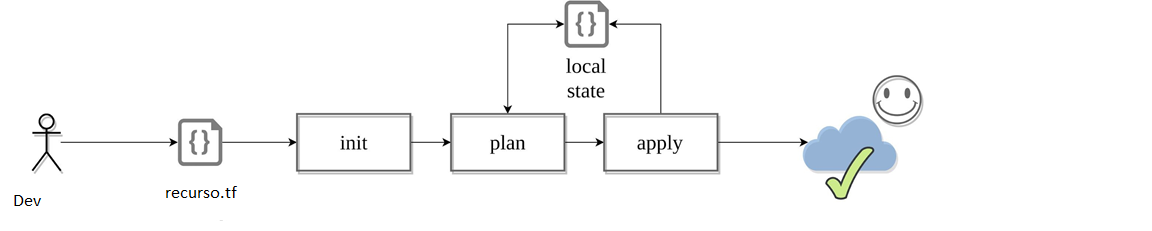
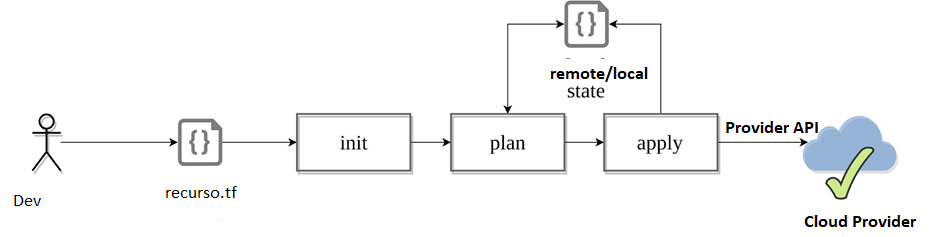
versão final entrega SGA/Secretaria

diff --git a/artigo/textos.tex b/artigo/textos.tex
@@ -17,7 +17,7 @@ No entanto, as equipes que lidam com a infraestrutura têm a difícil tarefa de 
 
 Para garantir um processo totalmente ágil e que acompanhe as exigências do negócio, da organização, é necessário que haja uma integração do desenvolvimento de sistemas e as operações de infraestrutura. Portanto, essa abordagem ágil também deve ser seguida pelas equipes de infraestrutura. O movimento cultural denominado \textit{DevOps} surgido em meados de 2009 foi influenciado principalmente por metodologias ágeis e computação na nuvem. Ele teve como fundamento a automatização de processos das operações de infraestrutura e a integração entre as equipes de desenvolvimento e operações.  \cite{sato}.
 
-A automatização de processos de infraestrutura é uma das premissas do \textit{DevOps}, utilizando uma abordagem para provisionar e gerenciar recursos de computação como máquinas virtuais, discos de armazenamento, regras de segurança, instalação de \textit{software}, regras de redes e qualquer outro componente de serviço, simplificando o provisionamento e o gerenciamento de recursos. Ao tratar a infraestrutura como código, as organizações podem usar as melhores práticas de desenvolvimento de software, incluindo revisão de código e controle de versão, documentação e testes da infraestrutura. Esta abordagem reduz a complexidade do gerenciamento, pois todo o processo é dividido em tarefas em menores e mais processos gerenciáveis.
+A automatização de processos de infraestrutura é uma das premissas do \textit{DevOps}, utilizando uma abordagem para provisionar e gerenciar recursos de computação como máquinas virtuais, discos de armazenamento, regras de segurança, instalação de \textit{software}, regras de redes e qualquer outro componente de serviço, simplificando o provisionamento e o gerenciamento de recursos. Ao tratar a infraestrutura como código, as organizações podem usar as melhores práticas de desenvolvimento de software, incluindo revisão de código e controle de versão, documentação e testes da infraestrutura. Esta abordagem reduz a complexidade do gerenciamento, pois todo o processo é dividido em tarefas em menores e mais processos gerenciáveis. \cite{Morris:2016:ICM:3006361}
 
 A abordagem da infraestrutura como código, também conhecida como \textit{IaC} reduz os riscos operacionais, permitindo submeter a configuração da infraestrutura da mesma maneira que o código fonte do software é tratado, usando sistemas de gerenciamento de código-fonte, \textit{TDD} \footnote{\textit{TDD - Test Driven Development}: O teste são que são escritos antes do nosso código de produção} , integração contínua \footnote{\textit{CI - Continuous Integration}: É uma prática de desenvolvimento de software em que os desenvolvedores, juntam suas alterações de código em um repositório central e os testes são executados. Geralmente, a integração contínua se refere ao estágio de criação ou integração do processo de lançamento de software.} , refatoração de código e outras técnicas, que são úteis para garantir que as alterações na infraestrutura sejam exaustivamente testadas, repetíveis e podendo restaurar a infraestrutura em qualquer revisão anterior, quando necessário. \cite{Morris:2016:ICM:3006361}.
 
@@ -53,17 +53,17 @@ com ferramentas de \textit{CI}, aplicações de metodologias de desenvolvimento 
 
 \section{\esp Metodologia}
 
-Para o desenvolvimento desse trabalho foram realizadas buscas sistêmicas em base dados nacionais e internacionais pelos assuntos relacionados a estes trabalho. As bases dados utilizadas foram o \textit{IEEE}, \textit{Google Scoolar}, \textit{Carnegie Mellon University Libraries}, SciELO e portal da capes. Foram consideradas as expressões:  \textit{Infrastructure as code}, \textit{IaC}, Infraestrutura como código, \textit{Tools IaC}, \textit{Terraform}, \textit{Ansible}, Automação de infraestrutura, \textit{Infrastructure automation} , \textit{Infrastructure as code book}, \textit{Terraform book} e \textit{Ansible book}. Todos os registros de artigos publicados entre 2003 e 2019, que continham qualquer uma dessas expressões. Além disso foram pesquisadas em fontes como livros e a documentação oficial de ferramentas estudadas neste artigo.  
+Para o desenvolvimento desse trabalho foram realizadas buscas sistêmicas em base dados nacionais e internacionais pelos assuntos relacionados a estes trabalho. As bases dados utilizadas foram o \textit{IEEE}, \textit{Google Scoolar}, \textit{Carnegie Mellon University Libraries}, SciELO e portal da capes. Foram consideradas as expressões:  \textit{Infrastructure as code}, \textit{IaC}, Infraestrutura como código, \textit{Tools IaC}, \textit{Terraform}, \textit{Ansible}, Automação de infraestrutura, \textit{Infrastructure automation} , \textit{Infrastructure as code book}, \textit{Terraform book} e \textit{Ansible book}. Todos os registros de artigos publicados entre 2003 e 2019, que continham qualquer uma dessas expressões. Além disso foram pesquisadas em fontes, como livros e a documentação oficial de ferramentas estudadas neste artigo.
 
-Impulsionado pelo movimento \textit{Agile} que alterou a forma como \textit{softwares} são construídos, priorizando ciclos curtos de desenvolvimento e entregas incrementais. Como resultado a infraestrutura também passou por essa transformação, buscando a máxima disponibilidade e flexibilidade. Essa transformação veio através do movimento chamado \textit{DevOps} que requer processos de trabalho ágeis e fluxos de trabalho automatizados, e que só podem ser alcançados com a garantia de infraestrutura de TI prontamente disponível necessária para executar e testa o código desenvolvido. Isso só pode acontecer dentro de um fluxo de trabalho automatizado, o que pode ser entendido como infraestrutura como código ou IaC. As ferramentas de IaC tem um papel fundamental para criar esses fluxos de trabalhos automatizados.
+O motivo para estudar ferramentas de \textit{IaC} é devido a transformação causada pelo movimento Ágil, que alterou a forma como \textit{softwares} são construídos, priorizando ciclos curtos de desenvolvimento e entregas incrementais. Como resultado a infraestrutura também passou por essa transformação, buscando a máxima disponibilidade e flexibilidade. Essa transformação veio através do movimento chamado \textit{DevOps}, que recomenda o fluxo de trabalho ágil e automatizado, e que só podem ser alcançados com a garantia de infraestrutura de TI prontamente disponível necessária para executar e testa o código desenvolvido. Isso só pode acontecer dentro de um fluxo de trabalho automatizado, o que pode ser entendido como, "Infraestrutura como código" ou IaC. As ferramentas de IaC tem um papel fundamental para criar esses fluxos de trabalhos automatizados.
 
-A grande quantidade de opções de ferramentas de \textit{IAC}, levada pela inexperiência da equipe pelo assunto, pode dificultar que a equipe escolha ferramentas que atendam o cenário ideal, sejam fáceis de utilizar de implantar e que tenham uma sinergia com ferramentas e o processo de desenvolvimento. Estabelecendo assim, um processo ágil que abrande desenvolvimento e operações de infraestrutura.  
+Devido a isso, existe atualmente uma grande quantidade de opções de ferramentas de \textit{IAC}, em conjunto com pela inexperiência da equipe pelo assunto, pode dificultar que a equipe escolha ferramentas que atendam o cenário ideal, que sejam fáceis de utilizar, implantar e que tenham uma integração com outras ferramentas e que garanta uma sinergia com o processo de desenvolvimento. Estabelecendo assim, um processo ágil que abrande desenvolvimento e operações de infraestrutura.  
 
-A escolha das ferramentas obedeceram critérios da tabela de \citeonline{masek} e dentre as ferramentas que atendem às características descritas nesta tabela, foram escolhidas o \textit{Ansible} e o \textit{Terraform} e usando critérios extras como, aceitação do mercado, suporte comercial e maturidade da ferramenta.
+A escolha das ferramentas obedeceram critérios da tabela de \citeonline{masek} e dentre as ferramentas que atendem às características descritas nesta tabela, foram escolhidas o \textit{Ansible} e o \textit{Terraform} e usando critérios extras como, aceitação do mercado, suporte comercial, maturidade da ferramenta e ferramentas que trabalham no modelo de provisionamento(Abordadas na Seção \ref{tools_iac}).
 
-Para medir a aceitação do mercado foram realizadas pesquisas em sites especializados de comparação de tipos de ferramentas. Um outro aspecto foi certificar se é uma ferramenta \textit{open source}(um ponto importante para permitir adaptação da ferramenta),se possui um plano de suporte pago, para critério de desempate foi considerado o preço do suporte. Para medir a maturidade foram consideradas o tempo de mercado, documentação, tempo de lançamento entre versões e a integração entre ferramentas.
+Para medir a aceitação do mercado foram realizadas pesquisas em sites especializados de comparação de tipos de ferramentas. Um outro aspecto foi certificar se é uma ferramenta \textit{open source}(um ponto importante para permitir adaptação da ferramenta),se possui um plano de suporte comerical, para critério de desempate foi considerado o preço do suporte. Para medir a maturidade foram consideradas o tempo de mercado, documentação, tempo de lançamento entre versões e a integração entre ferramentas.
 
-Os aspectos comparativos consideradas foram a linguagem de escrita, a performance(o tempo que cada ferramenta leva para criar um determinado número de recursos.) O controle de estado(capacidade da ferramenta  de controlar e identificar o estado real dos recursos) e a extensibilidade da ferramenta(Se possui um conjunto de \textit{SDK's} \footnote{\textit{SDK - Software Development Kit}} em que permite a programadores estender as funcionalidades da ferramenta).  Estes aspectos foram definidos de um compilado de assuntos abordados pelos autores apresentados neste artigo, como \cite{steve}, \cite{masek} e \cite{Morris:2016:ICM:3006361}.
+Os aspectos comparativos consideradas foram a linguagem de escrita, a performance(o tempo que cada ferramenta leva para criar um determinado número de recursos.). O controle de estado(capacidade da ferramenta  de controlar e identificar o estado real dos recursos) e a extensibilidade da ferramenta(Se possui um conjunto de \textit{SDK's} \footnote{\textit{SDK - Software Development Kit}} em que permite a programadores estender as funcionalidades da ferramenta).  Estes aspectos foram definidos de um compilado de assuntos abordados pelos autores apresentados neste artigo, como \cite{steve}, \cite{masek} e \cite{Morris:2016:ICM:3006361}.
 
 A realização dos testes considerou as últimas versões estáveis lançadas no momento da escritas desse artigo, do \textit{Ansible}(2.4.6) e do \textit{Terraform}(0.12.13). Os testes foram realizados usando o fornecedor de computação na nuvem  \textit{Digital Ocean}. \footnote{https://www.digitalocean.com/}, utilizando uma máquina com um processador de 7 núcleos e 16 Gigabtyes de memória RAM.   
 
@@ -91,18 +91,18 @@ Segundo \citeonline{masek}, a popularização da virtualização, o crescente po
 Os itens apresentados neste capítulo foram levantados de acordo com assuntos abordados na Seção \ref{relacionados}. A ideia dessa seção é descrever os conceitos básicos da infraestrutura como código de forma sucinta para um entendimento geral do assunto.
 
 
-\subsection{Tipos de Ferramentas IaC}
+\subsection{Tipos de Ferramentas IaC} \label{tools_iac}
 As ferramentas de gerenciamento de configuração como \textit{Chef, Puppet, Ansible,Saltack} foram projetadas para instalar e gerenciar softwares em servidores já existentes. Por exemplo, na instalação de banco de dados, adicionar uma regra de \textit{firewall} e etc.
 
 As ferramentas de Provisionamento como \textit{Terraform, Heat, Cloudformation} foram projetadas criar as próprias instâncias \footnote{Uma instância é um servidor virtual na nuvem. Por exemplo: Uma instância rodando o sistema operacional LINUX} e a inicialização de seus recursos. 
 
 Segundo \citeonline{Carnegie}, existem sobreposições e esses termos não são mutuamente exclusivos para ambas as ferramentas. As ferramentas de provisionamento podem realizar tarefas de configuração e ferramentas de configuração podem realizar tarefas de provisionamento, porém elas se concentram naquilo que são melhores. 
 
-Ambas as categorias de ferramentas utilizam dois modelos para descrever os recursos, um tipo se concentra no resultado final, já o outro tipo é preciso descrever os passos necessários para atingir o resultado final. Este pode ser entendido como por exemplo, para criar uma nova máquina ou instalar uma versão do java.
+Ambas as categorias de ferramentas utilizam dois modelos para descrever os recursos, um tipo se concentra no resultado final, já o outro tipo é preciso descrever os passos necessários para atingir o resultado final. Este último pode ser entendido como por exemplo, comandos necessários para instalar uma versão do java.
 
 \subsection{Linguagem}
 
-Segundo \citeonline{Morris:2016:ICM:3006361} as ferramentas de IaC usam arquivos de definição como \textit{DSL} \footnote{\textit{DSL - Domain-Specific Language:} Uma linguagem de domínio específico é criada especificamente para resolver problemas em um domínio particular e não se destina a ser capaz de resolver os problemas fora de seu âmbito. }, ou formatos de texto conhecidos comuns como, \textit{ YAML} \footnote{\textit{YAML - Ain't  Markup Language}: É um formato de serialização (codificação de dados) de dados legíveis por humanos -  https://yaml.org/ }, \textit{JSON} \footnote{\textit{JSON - JavaScript Object Notation:} É uma formatação leve de troca de dados. Para seres humanos, é fácil de ler e escrever. Para máquinas, é fácil de interpretar e gerar. Está baseado em um subconjunto da linguagem de programação JavaScript, https://www.json.org/json-pt.html}, \textit{XML} \footnote{\textit{XML - eXtensible Markup Language:} é uma linguagem de marcação para a criação de documentos com dados organizados hierarquicamente, tais como textos, banco de dados ou desenhos vetoriais.}
+Segundo \citeonline{Morris:2016:ICM:3006361} as ferramentas de IaC usam arquivos de definição como \textit{DSL} \footnote{\textit{DSL - Domain-Specific Language:} Uma linguagem de domínio específico é criada especificamente para resolver problemas em um domínio particular e não se destina a ser capaz de resolver os problemas fora de seu âmbito. }, ou formatos de texto comuns conhecidos como, \textit{ YAML} \footnote{\textit{YAML - Ain't  Markup Language}: É um formato de serialização (codificação de dados) de dados legíveis por humanos -  https://yaml.org/ }, \textit{JSON} \footnote{\textit{JSON - JavaScript Object Notation:} É uma formatação leve de troca de dados. Para seres humanos, é fácil de ler e escrever. Para máquinas, é fácil de interpretar e gerar. Está baseado em um subconjunto da linguagem de programação JavaScript, https://www.json.org/json-pt.html}, \textit{XML} \footnote{\textit{XML - eXtensible Markup Language:} é uma linguagem de marcação para a criação de documentos com dados organizados hierarquicamente, tais como textos, banco de dados ou desenhos vetoriais.}
   ou linguagens de programação como, \textit{Python} \footnote{\textit{Python} é uma linguagem de programação de alto nível, interpretada, de script, imperativa, orientada a objetos, funcional, de tipagem dinâmica e forte.}  \textit{Ruby} \footnote{\textit{Ruby} é uma linguagem de programação interpretada multi-paradigma, de tipagem dinâmica e forte, com gerenciamento de memória automático.}  ou uma mesclagem de ambas.
   
   Elas se concentram em dois tipos de estilo de escrita de código: 
@@ -138,13 +138,11 @@ Segundo \citeonline{Morris:2016:ICM:3006361} as ferramentas de IaC usam arquivos
 
  \subsection{Tipos de Infraestrutura}
  
-Nesta seção são abordadas duas características de como a infraestrutura é tratada atualmente e apresenta uma ideia central dos conceitos. Não serão discutidos qual modelo é melhor ou qual as vantagens de se utilizar um ou outro.
+Nesta seção são abordadas duas características de como a infraestrutura atualmente é tratada, e apresentar uma ideia central dos conceitos. Não serão discutidos qual modelo é melhor ou qual as vantagens de se utilizar um ou outro.
 
 Segundo \citeonline{Morris:2016:ICM:3006361}, na infraestrutura mutável, a cada mudança de algum componente, seja por uma demanda de serviço, aplicação ou segurança, essas atualizações precisam ser replicadas em todos os servidores que dependem dessas mudanças. A medida que atualizações são realizadas, cada servidor tem um histórico único de alterações, possuindo sutis diferenças de configuração. As ferramentas de gerenciamento de configuração normalmente são padronizadas para este paradigma de infraestrutura mutável.
 
- Segundo \citeonline{Morris:2016:ICM:3006361}, na infraestrutura mutável, a cada mudança de algum componente, seja por uma demanda de serviço, aplicação, segurança, estas atualizações precisam ser replicadas em todos os servidores que dependem dessas mudanças. A medida que atualizações são realizadas, cada servidor tem um histórico único de alterações, possuindo sutis diferenças de configuração. As ferramentas de gerenciamento de configuração normalmente são padronizadas para este paradigma de infraestrutura mutável. 
-  
-  Um exemplo hipotético seria a migração do \textit{JAVA}\footnote{Java é uma linguagem de programação e plataforma computacional.} para uma versão superior. Na infraestrutura mutável cada servidor precisaria receber esta atualização do JAVA. A infraestrutura mutável é como a maioria dos ambientes computacionais funcionam hoje.
+Um exemplo hipotético seria a migração do \textit{JAVA}\footnote{Java é uma linguagem de programação e plataforma computacional.} para uma versão superior. Na infraestrutura mutável cada servidor precisaria receber esta atualização do JAVA. A infraestrutura mutável é como a maioria dos ambientes computacionais funcionam hoje.
  
  Segundo \citeonline{Dadgar},"a noção de imutabilidade é a ideia de que, uma vez criada uma coisa, não a mudamos após a criação".
  
@@ -325,7 +323,7 @@ O \textit{Terraform} é executado por linha de comando. O usuário deve esta den
 	\centering	
 	\caption[\hspace{0.1cm}Fluxo Principal Terraform]{Fluxo Principal Terraform}
 	\vspace{-0.4cm}
-	\includegraphics[width=1.2\textwidth]{artigo/figuras/terraform_single_workflow.png}
+	\includegraphics[width=1.0\textwidth]{artigo/figuras/terraform_single_workflow.png}
 	 \vspace{-0.2cm}
 	\\\textbf{\footnotesize Adaptado de: \cite{Turbinskii}}
 	\label{fig:figura7}

diff --git a/artigo/principal.tex b/artigo/principal.tex
@@ -77,7 +77,7 @@
 
 \begin{abstract}
 \noindent
-A infraestrutura como código, também conhecida como IaC, surgiu principalmente com a popularização de metodologias ágeis e computação na nuvem, além do movimento cultural denominado \textit{DevOps}. A \textit{IaC} define como fundamento a automatização de processos das operações de infraestrutura, utilizando uma abordagem para provisionar e gerenciar recursos de computação por meio de codificação ao invés do processo tradicional. Ao tratar a infraestrutura como código, as organizações podem usar as melhores práticas de desenvolvimento de software, incluindo revisão de código, controle de versão, documentação e testes da infraestrutura. Com \textit{Iac} novos conceitos e ferramentas surgem, o que pode ser um dificultador para equipes inexperientes com computação na nuvem. Trata-se de uma nova abordagem e necessidade de mudança de paradigmas, além de entender novos conceitos. Para adoção da infraestrutura como código as equipes precisam escolher uma ferramenta ideal que atenda às necessidades. Neste artigo é proposto um estudo comparativo, apresentando aspectos positivos e negativos entre ferramentas de \textit{IaC}.
+A infraestrutura como código, também conhecida como IaC, surgiu principalmente com a popularização de metodologias ágeis e computação na nuvem, além do movimento cultural denominado \textit{DevOps}. A \textit{IaC} define como fundamento a automatização de processos das operações de infraestrutura, utilizando uma abordagem para provisionar e gerenciar recursos de computação por meio de codificação ao invés do processo tradicional. Ao tratar a infraestrutura como código, as organizações podem usar as melhores práticas de desenvolvimento de software, incluindo revisão de código, controle de versão, documentação e testes da infraestrutura. Com \textit{Iac} novos conceitos e ferramentas surgem, o que pode ser um dificultador para equipes inexperientes com computação na nuvem. Esta abordagem trás uma necessidade de mudança de paradigmas, além de entender novos conceitos. Para adoção da infraestrutura como código as equipes precisam escolher uma ferramenta ideal que atenda às necessidades. Neste artigo é proposto um estudo comparativo entre ferramentas de IaC e apresenta aspectos positivos e negativo dessas. Indicando qual ferramenta se destaca.
 \\\textbf{\keyword{Palavras-chave: }}  Infraestrutura como código,Automação, Provisionamento, Computação na nuvem, Terraform, Ansible 
 \end{abstract}
 
